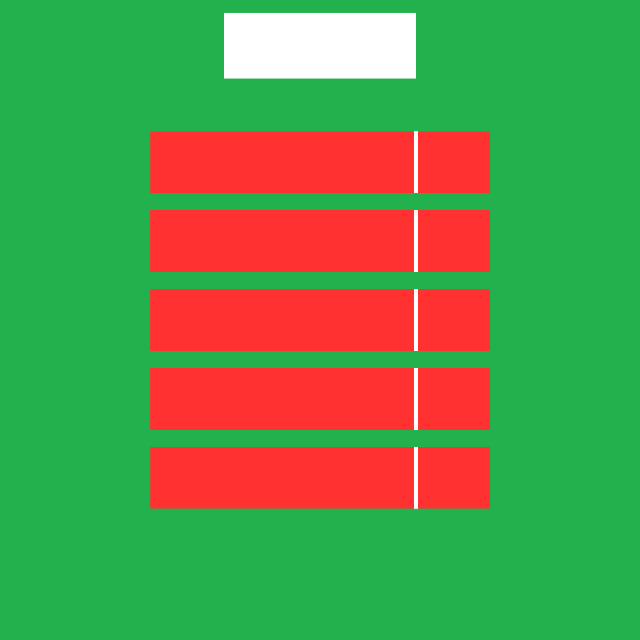
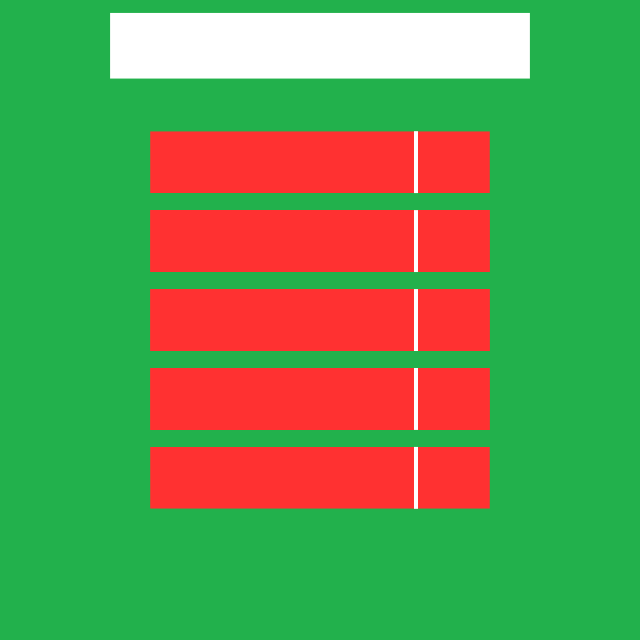
Fill scoreboards after lose

Changed region(s): [[0.625, 0.0, 0.8438, 0.125], [0.1562, 0.0, 0.375, 0.125]]

diff --git a/game.py b/game.py
@@ -10,7 +10,7 @@ from sprites import Attack, Block, Enemy, Floor, Player, Teleport, Button
 
 
 class Game:
-    def __init__(self) -> None:
+    def __init__(self, name=None) -> None:
         pygame.init()
         pygame.display.set_caption('Przetwarzanie rozproszone - projekt zaliczeniowy, Bartosz Konarski 200830')
         self.screen = pygame.display.set_mode(RESOLUTION)
@@ -18,7 +18,7 @@ class Game:
         self.enemies_ids = []
         self.font = pygame.font.Font('BreatheFireIii-PKLOB.ttf', 36)
         self.running = True
-
+        self.username = name
         self.network = Network('FOREST')
 
     def drawTilemap(self, zone: str, x_offset: int = 0):
@@ -69,7 +69,7 @@ class Game:
         self.teleports = pygame.sprite.LayeredUpdates()
         self.attacks = pygame.sprite.LayeredUpdates()
 
-        self.player = Player(self, 1, 2)
+        self.player = Player(self, 1, 2, self.username)
         self.drawTilemap('FOREST')
         self.drawTilemap('CASTLE', 100)
 
@@ -105,12 +105,39 @@ class Game:
         game_over = True
 
         current_zone = self.player.current_zone
-        forest_q = RabbitConsumer(current_zone)
-        forest_scoreboard = json.loads(forest_q.response)
+        scoreboard_queue = RabbitConsumer(current_zone)
+        scoreboard = json.loads(scoreboard_queue.response)
+        scoreboard_top = sorted(scoreboard, key=lambda x:x[1], reverse=True)[:5]
+        print(scoreboard_top)
 
         scoreboard_toggle_button = Button(320-125, 540, 250, 80, COLORS['WHITE'], COLORS['BLACK'], 'EXIT', 24)
-        title = self.font.render(current_zone, True, COLORS['BLACK'])
+        title = self.font.render(f'SCOREBOARD - {current_zone}', True, COLORS['BLACK'])
         title_rect = title.get_rect(x=320-title.get_width()/2, y=25)
+
+        scores_offset = 0
+        self.screen.blit(pygame.image.load(f'./assets/bg_{current_zone}.png'), (0,0))
+        self.screen.blit(title, title_rect)
+        self.screen.blit(scoreboard_toggle_button.image, scoreboard_toggle_button.rect)
+
+        for score in scoreboard_top:
+            if score[0]==self.username:
+                player_name_text = self.font.render(score[0], True, COLORS['BLUE'])
+                score_text = self.font.render(str(score[1]), True, COLORS['BLUE'])
+            else:
+                player_name_text = self.font.render(score[0], True, COLORS['BLACK'])
+                score_text = self.font.render(str(score[1]), True, COLORS['BLACK'])
+
+            player_name_rect = title.get_rect(x=175, y=143+scores_offset)
+            self.screen.blit(player_name_text, player_name_rect)
+
+            
+            score_text_rect = title.get_rect(x=440, y=143+scores_offset)
+            self.screen.blit(score_text, score_text_rect)
+
+            scores_offset += 78
+        
+        self.clock.tick(FRAMERATE)
+        pygame.display.update()
 
         while game_over:
             for event in pygame.event.get():
@@ -121,15 +148,12 @@ class Game:
             mouse_pos = pygame.mouse.get_pos()
             mouse_pressed = pygame.mouse.get_pressed()
 
+
             if scoreboard_toggle_button.is_pressed(mouse_pos, mouse_pressed):
                 game_over = False
                 self.running = False
 
-            self.screen.blit(pygame.image.load(f'./assets/bg_{current_zone}.png'), (0,0))
-            self.screen.blit(title, title_rect)
-            self.screen.blit(scoreboard_toggle_button.image, scoreboard_toggle_button.rect)
-            self.clock.tick(FRAMERATE)
-            pygame.display.update()
+            
                 
 
     def main(self):
@@ -142,7 +166,11 @@ class Game:
 
 
 if __name__ == "__main__":
-    g = Game()
+    name = input("Please enter your username (press ENTER to proceed): ")
+    if name:
+        g = Game(name)
+    else:
+        g = Game()
     g.create()
     while g.running:
         g.main()

diff --git a/client/consumer.py b/client/consumer.py
@@ -14,7 +14,7 @@ class RabbitConsumer:
             self.channel.basic_ack(method_frame.delivery_tag)
 
             # Escape out of the loop after 10 messages
-            if method_frame.delivery_tag == 1:
+            if method_frame.delivery_tag == 5:
                 break
 
             # Cancel the consumer and return any pending messages
